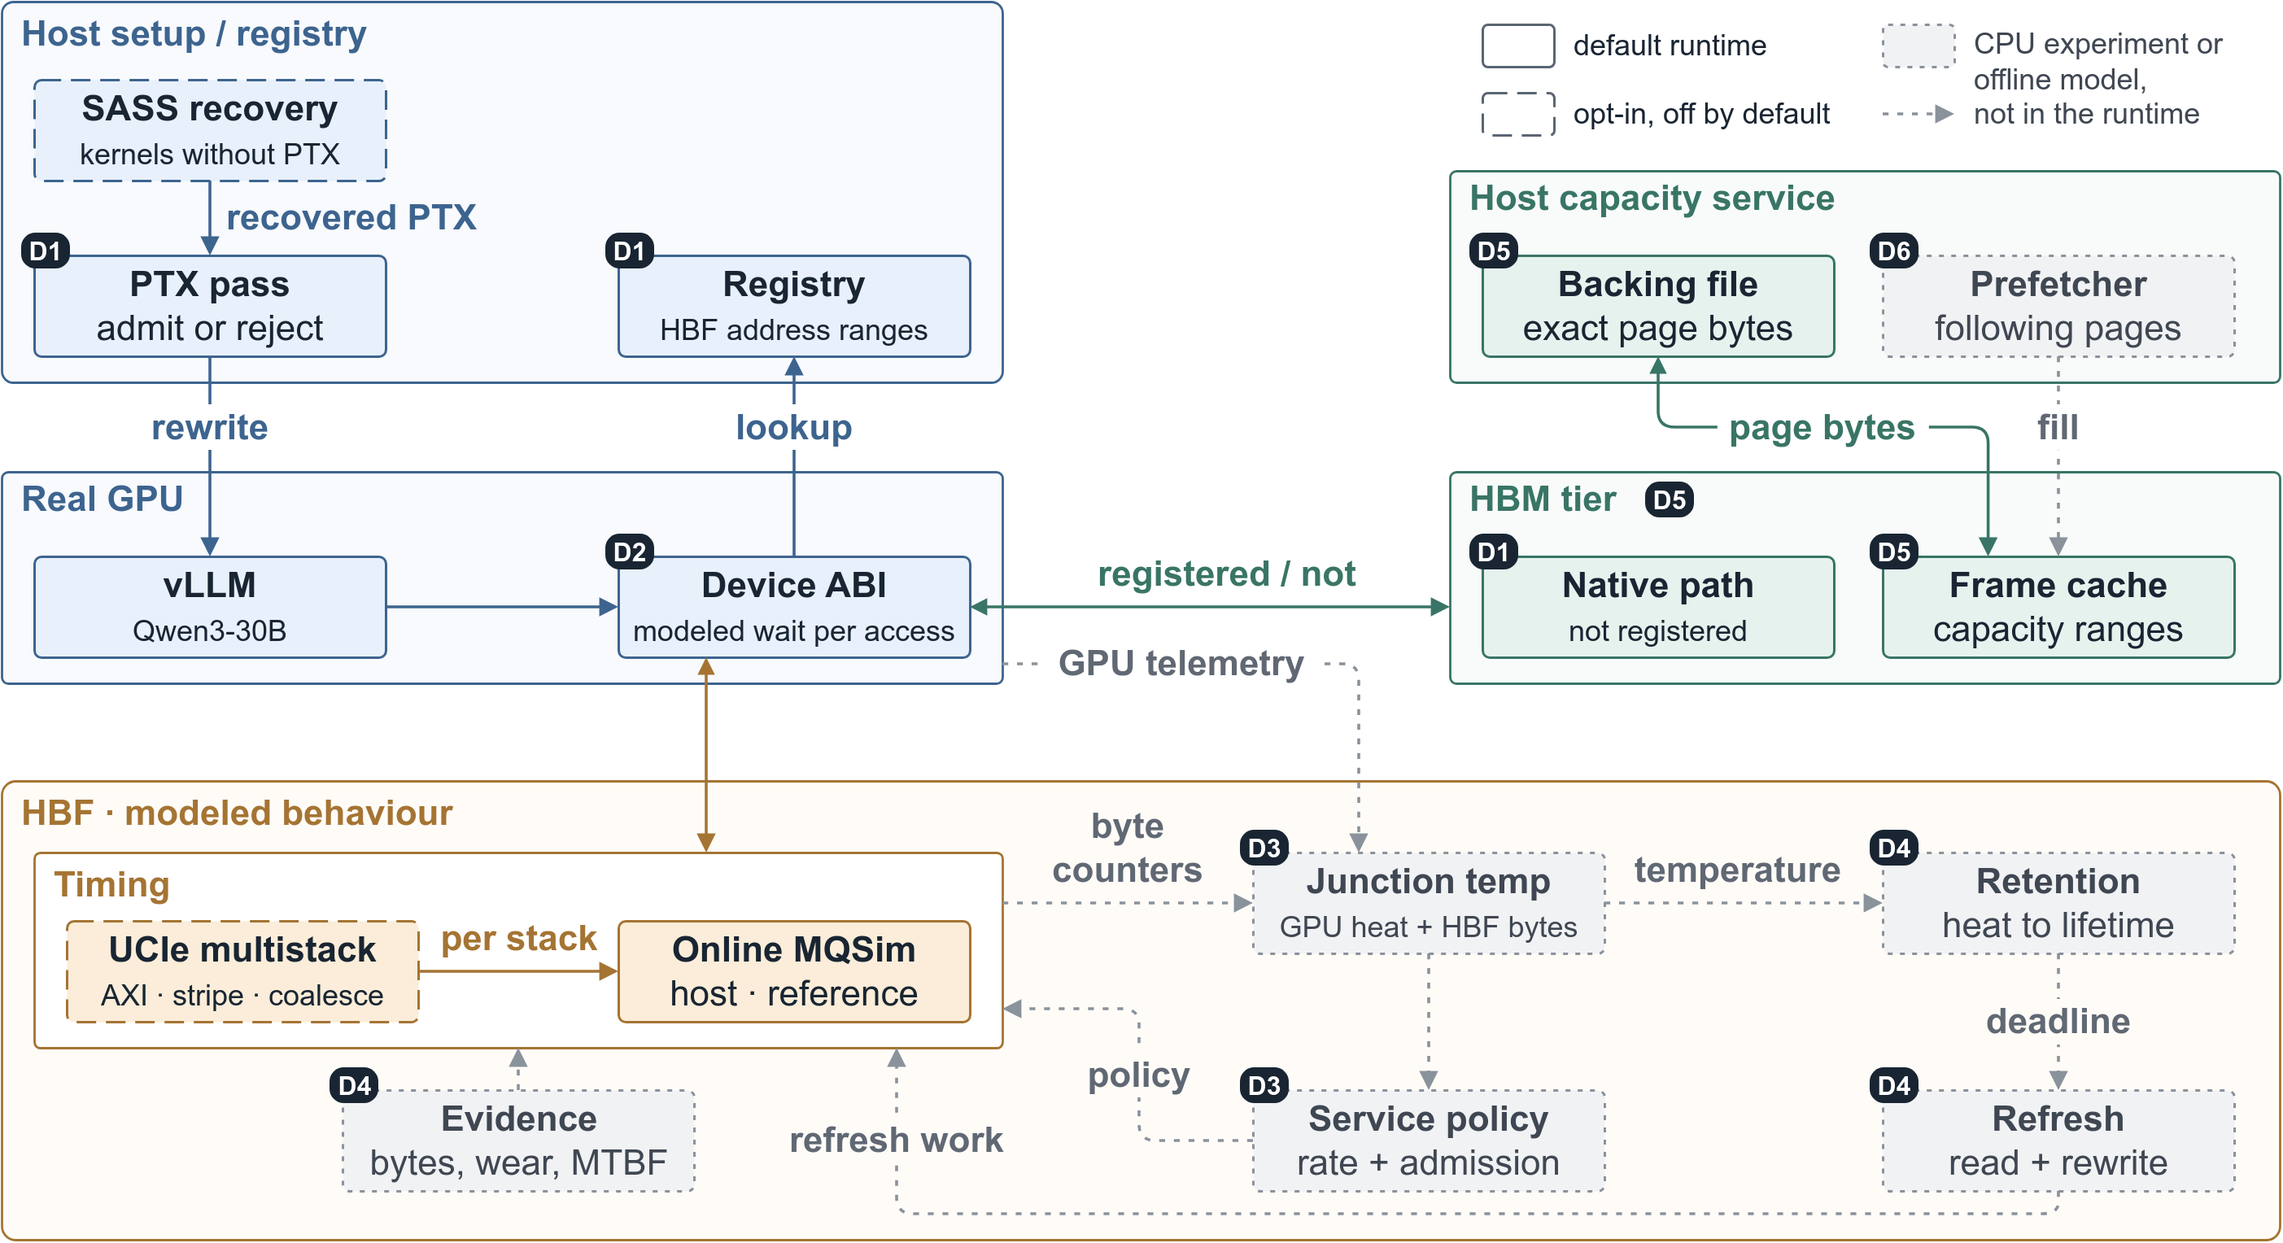
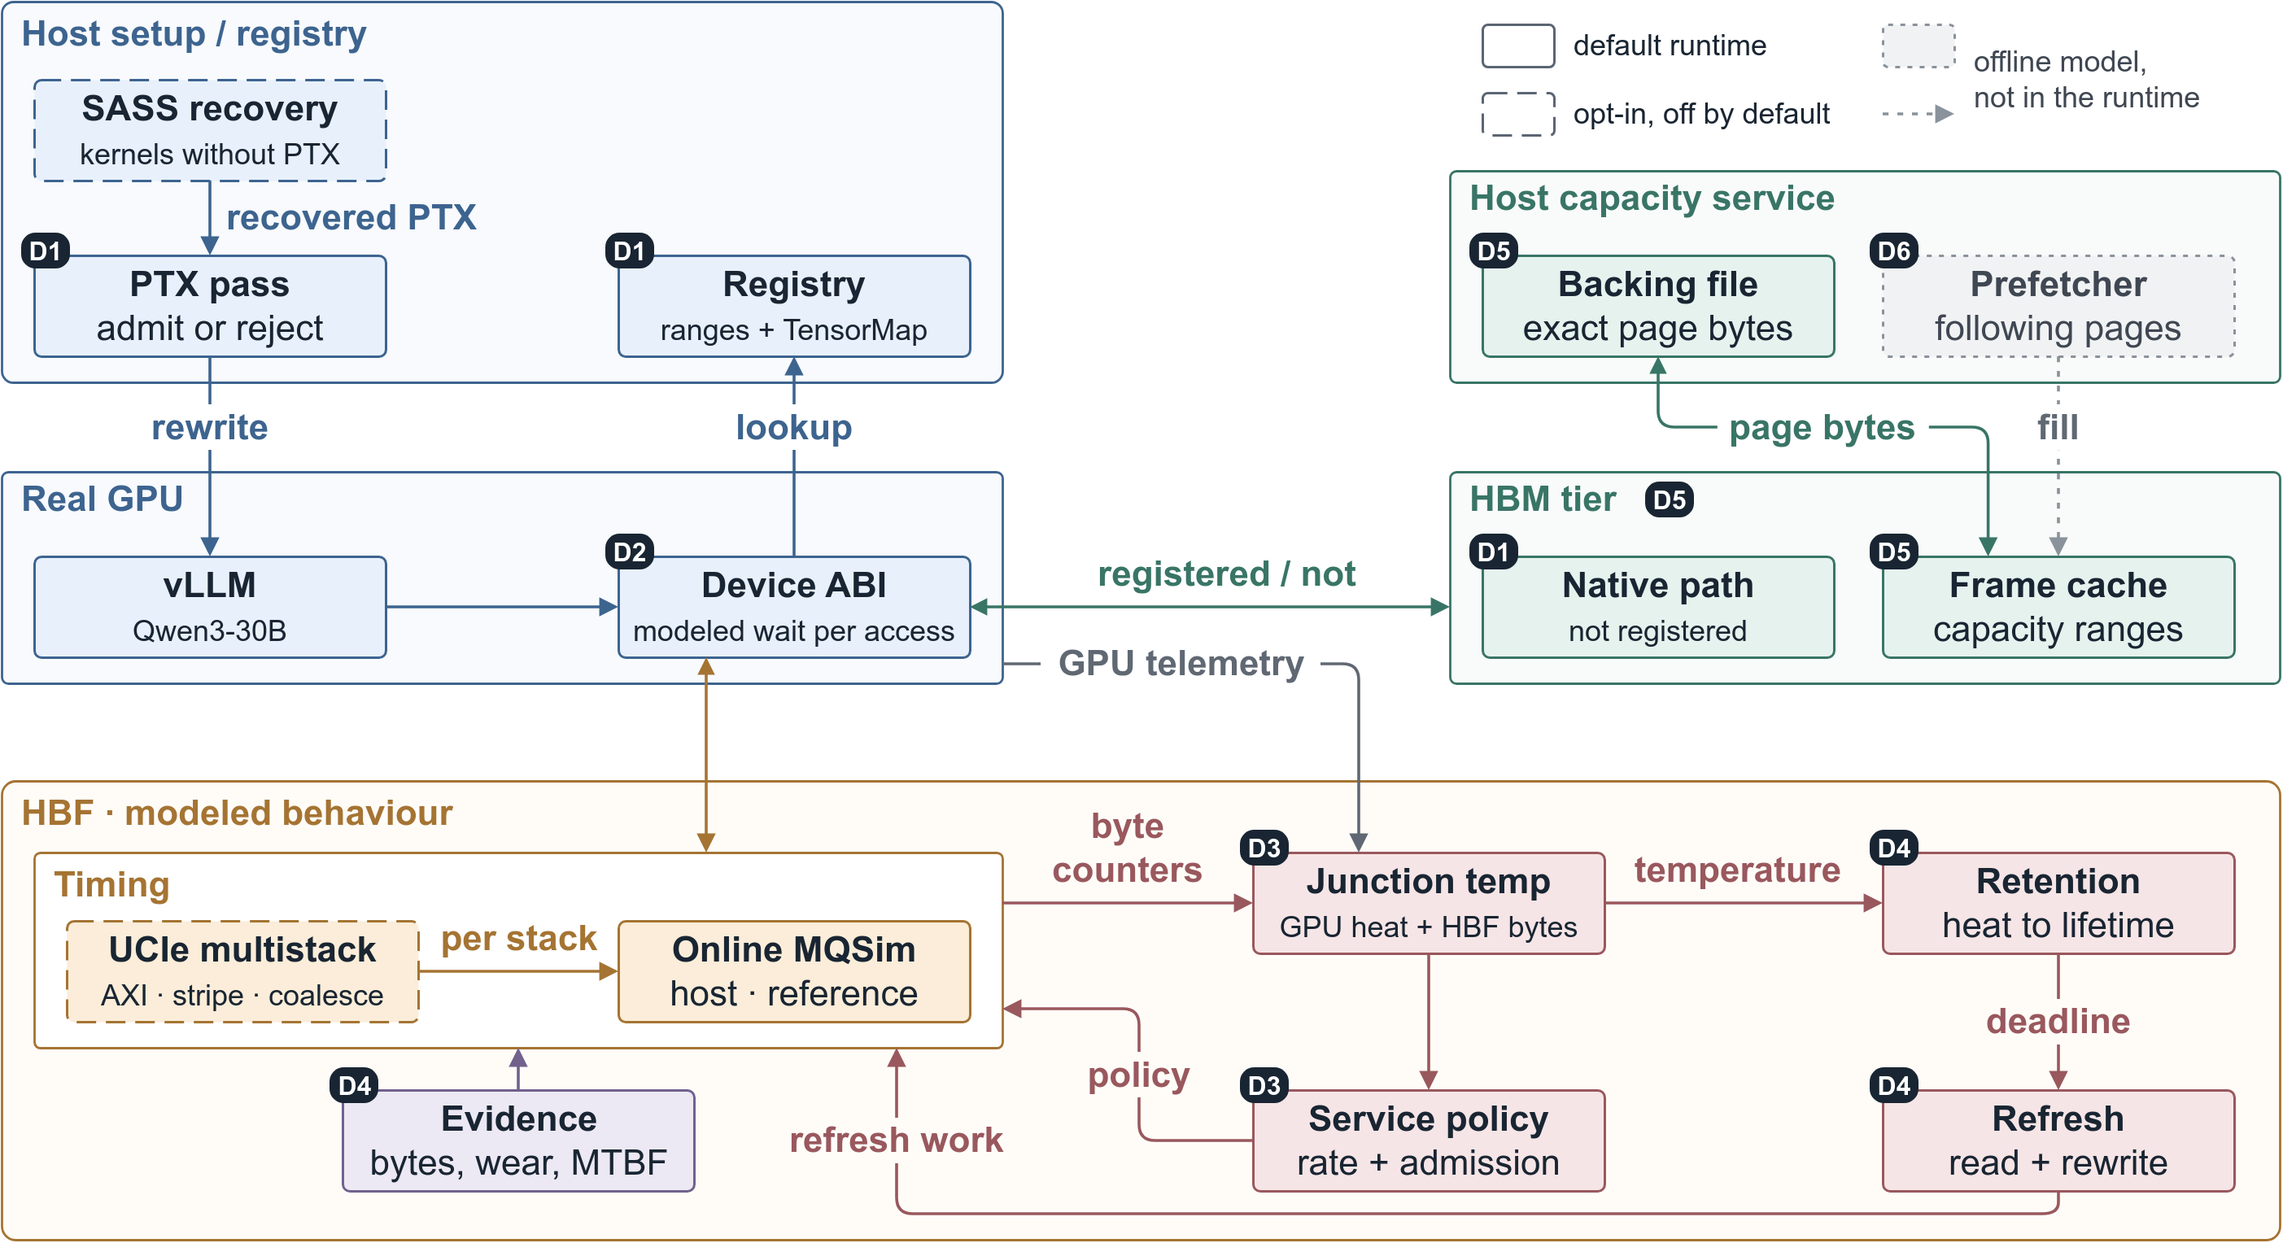
docs: drop outdated thermal and TMA status statements, follow arXiv author order
Remove the README statements that temperature does not reach the runtime timing
path and that TMA modeling is not on main; the thermal and reliability boxes in the
architecture figure return to their runtime styling, and the Registry box again
reads "ranges + TensorMap". The BibTeX blocks and CITATION.cff now list the authors
in the order of the arXiv record (Quinn before Zhang). SHA256SUMS and
PUBLIC_COPY_MANIFEST.json are refreshed for the two READMEs.

diff --git a/README.md b/README.md
@@ -12,11 +12,9 @@ NAND flash inside the package of a compute chip such as a GPU, one tier below Hi
 Memory (**HBM**).
 
 HBFSim lets an application execute normally on a real GPU. During execution, HBFSim applies HBF
-timing and capacity effects to the data registered as HBF, instead of recording an access
-sequence and replaying the recorded sequence afterwards. The design of HBFSim also brings
-temperature into the model, but on the `main` branch temperature modeling is currently a
-default-off CPU experiment (the EQ3 thermal and reliability code in the repository) that does not
-yet reach the timing path of the real-GPU runtime.
+timing, capacity, and thermal effects to the data registered as HBF, instead of recording an
+access sequence and replaying the recorded sequence afterwards. The thermal effects come from the
+EQ3 thermal and reliability model in the repository.
 
 HBFSim already runs two examples on a real GPU. With modeled delay injected into vLLM serving
 Qwen3-30B, the generated token identifiers match the baseline. A 110 GiB logical address range
@@ -32,7 +30,7 @@ To see why such a simulator is needed, start at [Why HBF matters](#why-hbf-matte
 Historical documents, logs, and input examples use public path-normalized copies. See [how to configure paths and verify these copies](PUBLIC_COPY_NOTICE.md).
 
 > Part of HBFSim is still experimental, and the [Features](#features) table marks the status of
-> each feature: on by default, opt-in, or CPU experiment only. To report a reproducible problem,
+> each feature: on by default or opt-in. To report a reproducible problem,
 > use the [bug report form](https://github.com/SlugLab/HBFSim/issues/new?template=bug_report.yml); for a
 > usage question, ask in the [Q&A discussions](https://github.com/SlugLab/HBFSim/discussions/new?category=q-a).
 
@@ -322,7 +320,7 @@ use ([TODO.md](TODO.md#correctness-and-fidelity)).
 | GPU simulator that does not run the real compute kernels (replays a recorded GPU instruction trace) | ✗ | ✗ | ✗ | ✗ |
 | Cycle-accurate simulator | ✓ | ✗ | ✓ | ✗ |
 | Vendor parameter sheet | ✗ | ✗ | ✗ | ✗ |
-| HBFSim | ✓ | ✓ | ✓ | ✓¹ |
+| HBFSim | ✓ | ✓ | ✓ | ✓ |
 
 - The rows name methods rather than specific products, so one particular tool may add one of the
   four capabilities.
@@ -330,11 +328,6 @@ use ([TODO.md](TODO.md#correctness-and-fidelity)).
   in acceptable time and can only extrapolate from one layer. The ✓ in the first column therefore
   does not mean that a cycle-accurate simulator can answer, in acceptable time, how much slower
   decode becomes or how much HBM and HBF capacity to buy.
-- ¹ The design of HBFSim brings temperature, data retention deadlines, and refresh into the model.
-  On `main`, temperature, retention, and refresh exist only as a default-off CPU experiment (EQ3)
-  that does not yet reach the timing path of the real-GPU runtime
-  ([TODO.md](TODO.md#modeling-endurance-and-temperature),
-  [docs/eval/thermal_coverage.md](docs/eval/thermal_coverage.md)).
 
 ## The HBFSim approach
 
@@ -346,10 +339,8 @@ The paper also requires that the injection not destroy the GPU concurrency that 
 the original access latency; the `main` default build waits at the issue point and does not yet
 meet the concurrency requirement (see
 [Where the latency of one global load gets hidden](#where-the-latency-of-one-global-load-gets-hidden)).
-The paper further describes modeling of transfers by the Tensor Memory Accelerator (**TMA**, the
-unit on NVIDIA GPUs that moves a whole tile of a multidimensional array asynchronously), runtime
-prefetching, and closed-loop temperature control; the implementations of all three are not yet
-merged into `main`. The rest of this page describes only the state of `main`.
+The paper further describes runtime prefetching, and that implementation is not yet merged
+into `main`. The rest of this page describes only the state of `main`.
 
 ### How it works
 
@@ -368,7 +359,7 @@ The design has three mechanisms.
    no CUDA kernel has to be edited by hand.
 
    The supported forms are scalar and vector global loads and stores. Atomics,
-   `cp.async`, TMA, and texture accesses are not rewritten; HBFSim counts every such access and
+   `cp.async`, and texture accesses are not rewritten; HBFSim counts every such access and
    reports the access as unsupported
    ([docs/skills/02-ptx-instrumentation.md](docs/skills/02-ptx-instrumentation.md)).
 
@@ -426,13 +417,13 @@ GPU run.
 ### Architecture
 
 <div align="center">
-  <img src="docs/assets/hbfsim-architecture.png" alt="HBFSim architecture: host-side SASS recovery, a PTX pass, and a registry of HBF address ranges; a real GPU running vLLM, where rewritten accesses wait for the modeled device time through the Device ABI; a GPU memory tier (labeled HBM tier) with a native path and a frame cache; a host capacity service with a backing file and a prefetcher; and HBF modeling with online MQSim, the UCIe multistack interface, and thermal and reliability experiments" width="900">
+  <img src="docs/assets/hbfsim-architecture.png" alt="HBFSim architecture: host-side SASS recovery, a PTX pass, and a registry of HBF address ranges; a real GPU running vLLM, where rewritten accesses wait for the modeled device time through the Device ABI; a GPU memory tier (labeled HBM tier) with a native path and a frame cache; a host capacity service with a backing file and a prefetcher; and HBF modeling with online MQSim, the UCIe multistack interface, and the thermal and reliability model" width="900">
 </div>
 
 The parts of the figure fall into three status classes, and the legend shows how each class is
 drawn. The first class is part of the default runtime; the second class is an option that must be
-turned on explicitly; the third class exists only as a CPU experiment or an offline model and is
-not connected to the runtime. The D1–D6 labels next to boxes refer to the six subsections of the
+turned on explicitly; the third class is an offline model and is not
+in the runtime (in the figure, only the Prefetcher belongs to the third class). The D1–D6 labels next to boxes refer to the six subsections of the
 Design section in the arXiv paper.
 
 - **Host-side preparation.** The PTX pass rewrites a module, and the coverage gate uses the result
@@ -458,14 +449,12 @@ Design section in the arXiv paper.
   (**AXI**, the protocol layer that the specification runs on top of UCIe), stripes pages across
   stacks, coalesces requests, and runs one MQSim worker per stack. The fast path (timing mode
   `fast`) computes directly on the GPU and is not drawn as a separate box in the figure.
-- **HBF modeling: thermal and reliability.** By design, junction temperature sets the rate HBF
+- **HBF modeling: thermal and reliability.** Junction temperature sets the rate HBF
   sustains and the retention deadline, and an approaching deadline forces refresh work (a read
   followed by a rewrite). A service policy sets rate and admission; the evidence output records
   bytes, wear, and mean time between failures (**MTBF**). In the figure, the thermal and
-  reliability model consists of five gray dotted boxes: Junction temp, Service policy, Retention,
-  Refresh, and Evidence. The thermal and reliability model belongs to the third class: on `main`
-  the thermal and reliability model is a default-off CPU experiment (EQ3) and does not yet reach
-  the runtime timing path. EQ3 increments a wear count only on a successful erase and has no
+  reliability model, named EQ3 in the repository, consists of five boxes: Junction temp, Service
+  policy, Retention, Refresh, and Evidence. EQ3 increments a wear count only on a successful erase and has no
   lifetime model, so EQ3 does not output MTBF yet.
 
 ### Two modes
@@ -495,10 +484,9 @@ affected, because no published run reached the eviction path
 
 ## Features
 
-The status column uses three values: on by default means that the default build includes the
+The status column uses two values: on by default means that the default build includes the
 feature and the runtime can use the feature directly; opt-in means that a build option or a
-runtime switch has to be set; CPU experiment means that the feature runs only on the CPU and is
-not connected to the real-GPU runtime. The rows for full-model weight registration, the three
+runtime switch has to be set. The rows for full-model weight registration, the three
 adapters, and the issue and Q&A discussion templates cannot be described by a single switch, so
 the status cells of those three rows say how far the existing evidence goes and what is still
 missing.
@@ -513,7 +501,7 @@ missing.
 | SASS recovery | For a closed-source or precompiled kernel without PTX, recovers the selected kernel from SASS to PTX before instrumentation; the recovery pipeline comes from hetGPU | Opt-in: off in the ordinary entry point (`HBFSIM_ENABLE_SASS_LIFTER=0`), on by default in the research entry point `scripts/run_with_sass_research.sh` | [tools/sass_runtime](tools/sass_runtime/README.md) |
 | Full-model weight registration | OLMoE-1B-7B-0924: the native PTX path (rewrites the PTX the compiler emitted, without SASS recovery) registers all 98 supported weight storages, and SASS recovery extends registration to all 147 storages | The 147-storage half depends on SASS recovery, which is opt-in, was run on one fixed request only, and has no clean source rebuild and no cross-machine GPU reproduction. The 98-storage half was also run on one fixed request only; components rebuilt from source have passed only the 8-storage representative run, and the 98-storage run has not been repeated with the rebuilt components | [98-storage results](docs/hbfsim-supported-weights/RESULTS.md), [source rebuild record for the 98-storage half](docs/hbfsim-supported-weights/REBUILT_SOURCE_VALIDATION.md), [147-storage reproduction package](reproduction/sass-final147-20260926/README.md) |
 | Three adapters | [`adapters/vllm/`](adapters/vllm/), [`adapters/vllm_capacity/`](adapters/vllm_capacity/), [`adapters/llama_cpp/`](adapters/llama_cpp/) | vLLM and llama.cpp have real-GPU proofs; the offline trace replay of vLLM capacity has CPU fixture tests only | [`docs/proofs/2026-08-11-vllm-exact-live-delay.md`](docs/proofs/2026-08-11-vllm-exact-live-delay.md), llama.cpp section of [`docs/proofs/2026-08-11-hybrid-complete.md`](docs/proofs/2026-08-11-hybrid-complete.md) |
-| EQ3 thermal and reliability model | Junction temperature, temperature-dependent service rate, data retention deadlines, and refresh; code in directories such as `src/eq3_thermal/` and `experiments/eq3_system_thermal/` | CPU experiment, off by default, not connected to the runtime timing path | [docs/eq3_thermal](docs/eq3_thermal/README.md), [experiments/eq3_system_thermal](experiments/eq3_system_thermal/README.md), [thermal_coverage.md](docs/eval/thermal_coverage.md) |
+| EQ3 thermal and reliability model | Junction temperature, temperature-dependent service rate, data retention deadlines, and refresh; code in directories such as `src/eq3_thermal/` and `experiments/eq3_system_thermal/` | Opt-in (the module is off by default) | [docs/eq3_thermal](docs/eq3_thermal/README.md), [experiments/eq3_system_thermal](experiments/eq3_system_thermal/README.md) |
 | Wait at the first use | Records a device future at issue and waits only at the first instruction that reads the result; covers only loads in timing ranges and uses only the scalar model of the fast path (timing mode `fast`) | Opt-in: the build option `HBFSIM_ENABLE_TIMING_FUTURES` is off by default; 6 wait-semantics cases pass on RTX 5090; no profile shipped in the repository passes the admission check (which requires, among other conditions, `time_scale` 1 and a profile that is not calibrated from measurements; `time_scale` is the factor in a profile that scales up the modeled latency, and `nominal.json` sets `time_scale` to 100), so the shipped profiles cannot exercise the path that waits at the first use | [docs/52-main-gpu-thermal-integration](docs/52-main-gpu-thermal-integration/README.md), [docs/51](docs/51-defect-review-and-fixes.md) |
 | PTX target compatibility fix | Both bpftime build paths preserve PTX target features and surface compiler diagnostics (commit `fccfd23`) | On by default | [troubleshooting guide](docs/troubleshooting.md) |
 | Issue and Q&A discussion templates | A bug report form and a Q&A form | Provided in the repository; not a build or runtime feature | [bug_report.yml](.github/ISSUE_TEMPLATE/bug_report.yml), [q-a.yml](.github/DISCUSSION_TEMPLATE/q-a.yml), [docs/troubleshooting.md](docs/troubleshooting.md) |
@@ -700,8 +688,7 @@ memory, not HBM, and the GDDR7 memory plays the role of HBM in the experiments
   [`docs/proofs/2026-08-11-hybrid-complete.md`](docs/proofs/2026-08-11-hybrid-complete.md)) gave
   -3.72%, and
   the thermal configuration file uses -3.72%; see
-  [TODO.md](TODO.md#modeling-endurance-and-temperature). HBF temperature does not yet reach the
-  runtime timing path.
+  [TODO.md](TODO.md#modeling-endurance-and-temperature).
 
 - **The `cd8p-vmem-p50` timing profile is calibrated from a real device.** The calibration source is a Dell DC NVMe
   CD8P E3.S 1.92TB attached over PCIe 5.0 32 GT/s x4. The Dell CD8P is an ordinary PCIe NVMe
@@ -819,7 +806,7 @@ the items with part of the work done are marked as partly done.
 - [x] ~~Native PTX coverage of all 98 supported weight storages of OLMoE-1B-7B-0924~~ ([results](docs/hbfsim-supported-weights/RESULTS.md))
 - [x] ~~SASS recovery path and the final147 reproduction package, registering 147 storages on one fixed request; acknowledgement of hetGPU~~ ([reproduction package](reproduction/sass-final147-20260926/README.md))
 - [x] ~~Make SASS recovery off by default; fix PTX target compatibility with compiler diagnostics; add the troubleshooting guide and the Q&A form~~ ([troubleshooting guide](docs/troubleshooting.md))
-- [x] ~~Merge the EQ3 thermal and reliability tools into `main` as an isolated CPU experiment~~ ([integration notes](docs/52-main-gpu-thermal-integration/README.md))
+- [x] ~~Merge the EQ3 thermal and reliability model into `main`~~ ([integration notes](docs/52-main-gpu-thermal-integration/README.md))
 - [x] ~~Fix six groups of defects in the timing and instrumentation path in seven commits, and measure wait semantics on an RTX 5090~~ ([defect review and fixes](docs/51-defect-review-and-fixes.md), [RTX 5090 wait-semantics checks](docs/52-main-gpu-thermal-integration/README.md))
 - [x] ~~Replace historical documents, logs, and input examples with path-normalized copies, and ship a `SHA256SUMS` checksum list~~ ([public copy notice](PUBLIC_COPY_NOTICE.md))
 
@@ -832,7 +819,6 @@ the items with part of the work done are marked as partly done.
 
 **Not done yet**
 
-- [ ] Connect temperature to the runtime timing path ([TODO.md](TODO.md#modeling-endurance-and-temperature)).
 - [ ] Validate against held-out calibration points; all six breakpoints currently take part in the fit ([TODO.md](TODO.md#validation)).
 - [ ] Charge a write once per 4 KiB program unit instead of once per store instruction, and stop rewriting evicted pages in place in capacity mode ([TODO.md](TODO.md#correctness-and-fidelity)).
 - [ ] Compare the fast path against the MQSim reference path on the same input ([TODO.md](TODO.md#validation)).
@@ -844,8 +830,7 @@ the items with part of the work done are marked as partly done.
 
 - `src/`: all C++ and CUDA production code, in 11 components. The components are the CUDA
   interception runtime (`cuda_runtime/`), the PTX pass (`ptxpass_hbf/`), the host service
-  (`host_service/`), the UCIe multistack backend (`ucie/`), the thermal solver (`eq3_thermal/`, a
-  standalone CPU library outside the top-level build), the MQSim adapter (`mqsim_adapter/`), the
+  (`host_service/`), the UCIe multistack backend (`ucie/`), the thermal solver (`eq3_thermal/`), the MQSim adapter (`mqsim_adapter/`), the
   profile loader (`profile/`), prefetch (`prefetch/`), reporting (`reporting/`), the fast-model
   calibrator (`hybrid/`), and the page protocol (`protocol/`). By lines of code, the three largest
   are the CUDA interception runtime, the UCIe multistack backend, and the PTX pass.
@@ -907,7 +892,7 @@ The paper describing HBFSim is [arXiv:2609.09800](https://arxiv.org/abs/2609.098
 ```bibtex
 @article{hu2026hbfsim,
   title   = {HBFSim: Fast and Faithful Simulation of High-Bandwidth Flash Under Real GPU Execution},
-  author  = {Hu, Yanpeng and Yang, Yiwei and Zhu, Yuanwu and Zheng, Yusheng and Zhang, Wei and Quinn, Andi},
+  author  = {Hu, Yanpeng and Yang, Yiwei and Zhu, Yuanwu and Zheng, Yusheng and Quinn, Andi and Zhang, Wei},
   journal = {arXiv preprint arXiv:2609.09800},
   year    = {2026}
 }
